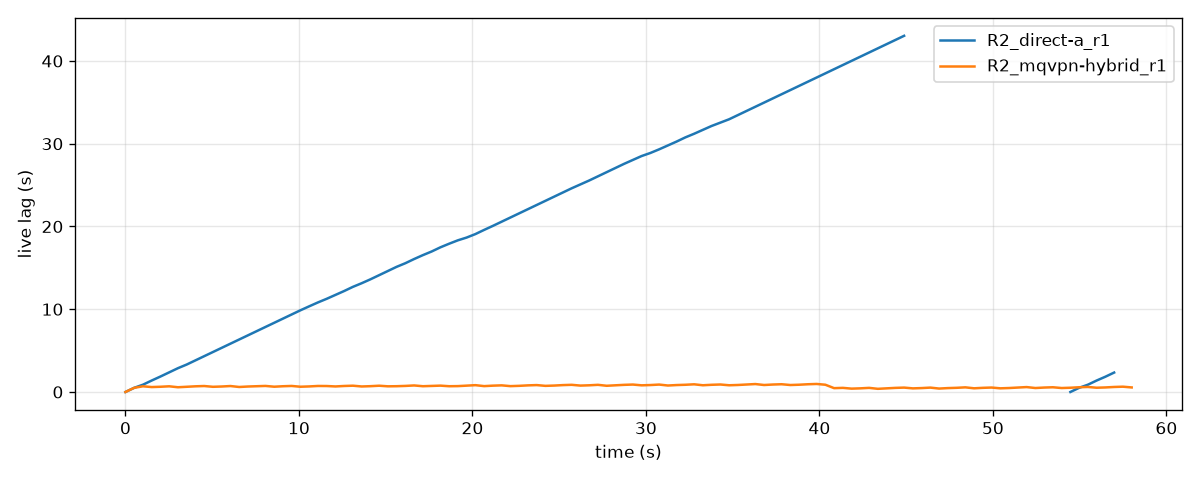
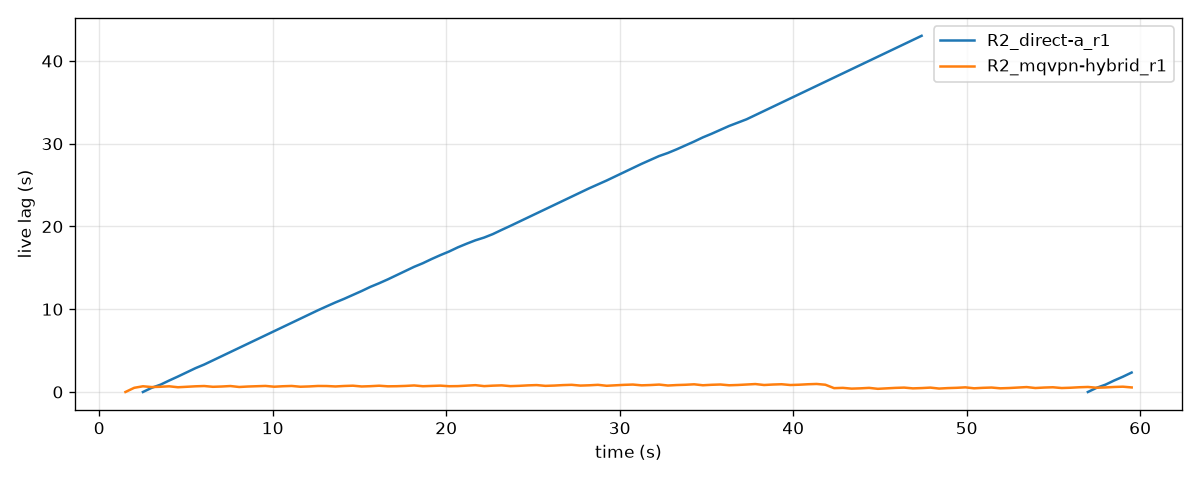
bench(rtmp): anchor chart time axis to publisher start

diff --git a/benchmarks/rtmp_analyze.py b/benchmarks/rtmp_analyze.py
@@ -183,7 +183,12 @@ def cmd_chart(a):
     for cell in a.cell_dirs:
         label = os.path.basename(cell.rstrip("/"))
         lags = session_lags(cell)
-        t0 = None
+        # x-axis origin = when the publisher first attempted to connect
+        # (cell start, matching the condition's flap schedule), not the
+        # first media sample — otherwise the ~1 s encoder start-up shifts
+        # every event left on the chart
+        evs = read_events(os.path.join(cell, "publisher.events"))
+        t0 = next((ts for ts, k, _a in evs if k == "connect"), None)
         color = None
         for sess in sorted(lags):
             pts = lags[sess]
